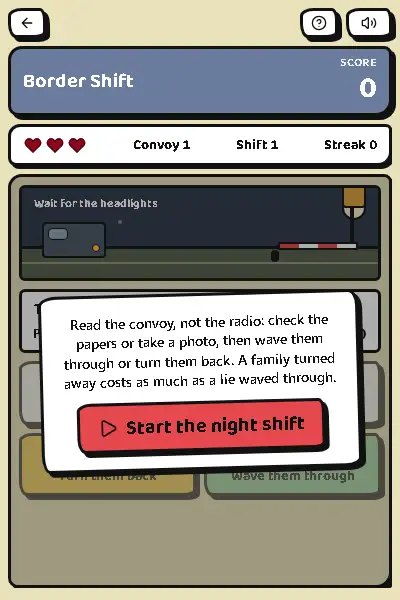
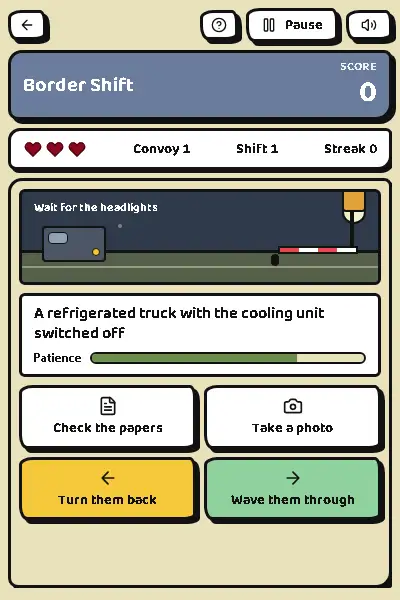
chore(modes): show the new cards in play and tick their ideas
The Border Shift and Falklands cards were captured on their start overlays,
so they repeated the description instead of showing the board. Capture them
after the first click: the queue with its patience bar, and the chart with
both fleets on day zero.

Tick the shipped Border Shift and Falklands bullets in improvements.md and
note how each one ended up, including the Falklands roster without Israel.

diff --git a/src/lib/components/FalklandsField.svelte b/src/lib/components/FalklandsField.svelte
@@ -175,8 +175,8 @@
 				<span dir="auto" class="font-bold">{speedLabel(speed)}</span>
 				<span class="text-[0.65rem] tabular-nums sm:text-xs">
 					{SPEEDS[speed].zones === 1
-					? m.falklands_move_summary_one({ fuel: costFor(speed) })
-					: m.falklands_move_summary({ zones: SPEEDS[speed].zones, fuel: costFor(speed) })}
+						? m.falklands_move_summary_one({ fuel: costFor(speed) })
+						: m.falklands_move_summary({ zones: SPEEDS[speed].zones, fuel: costFor(speed) })}
 				</span>
 			</button>
 		{/each}

diff --git a/improvements.md b/improvements.md
@@ -607,23 +607,30 @@ _Loop: defend an oil giant from a hostile takeover on one screen and a feed of l
 _Loop: one night on Poland's eastern border, a refugee surge the radio calls an invasion, and convoys
 that are not always what they claim._
 
-- **Identify, do not fire**: convoys split into families and Belarusian psy-ops; paperwork and a
-  camera are the right tools, the wrong call costs reputation rather than lives. (M)
+- [x] **Identify, do not fire**: convoys split into families and Belarusian psy-ops; paperwork and a
+      camera are the right tools, the wrong call costs reputation rather than lives. (M)
+      (Papers and camera each reveal the truth or nothing, patience pays for each look, and the night
+      ends after three wrong calls.)
 - **Radio conflict**: Warsaw and the local post give different orders; following the right one means
   reading the situation, not the volume. (M)
-- **Morning report**: the result sheet is a press conference, scored on how few people were turned
-  away and how few lies got through. (S)
+- [x] **Morning report**: the result sheet is a press conference, scored on how few people were turned
+      away and how few lies got through. (S)
+      (The sheet counts families through, psy-ops caught, families turned back and psy-ops through.)
 
 #### Falklands
 
 _Loop: run a task force across the South Atlantic while the other side counts the same islands._
 
-- **Task force**: fuel, weather and a carrier group that must arrive before the other fleet does; the
-  map is the board. (M)
-- **The other side**: Great Britain and Israel as the player's coalition, Argentina as the opponent,
-  with Buenos Aires' claim ticking up in the corner. (M)
-- **Peace option**: a diplomatic track that wins later but scores lower, so the joke is that the war
-  is the fast path. (S)
+- [x] **Task force**: fuel, weather and a carrier group that must arrive before the other fleet does; the
+      map is the board. (M)
+      (Twelve sea zones, seventy fuel, three speeds; fog and storms stop a sprint and a storm costs
+      extra fuel.)
+- [x] **The other side**: Great Britain as the player's coalition and Argentina as the opponent, with
+      the other fleet ticking up the chart. (M)
+      (Starmer and Milei host the mode; the other fleet starts three zones out and never waits.)
+- [x] **Peace option**: a diplomatic track that wins later but scores lower, so the joke is that the war
+      is the fast path. (S)
+      (Seven days of talks open the deal, which pays a flat peace score instead of the military bonus.)
 
 ### 5.2 Leaders and countries
 
